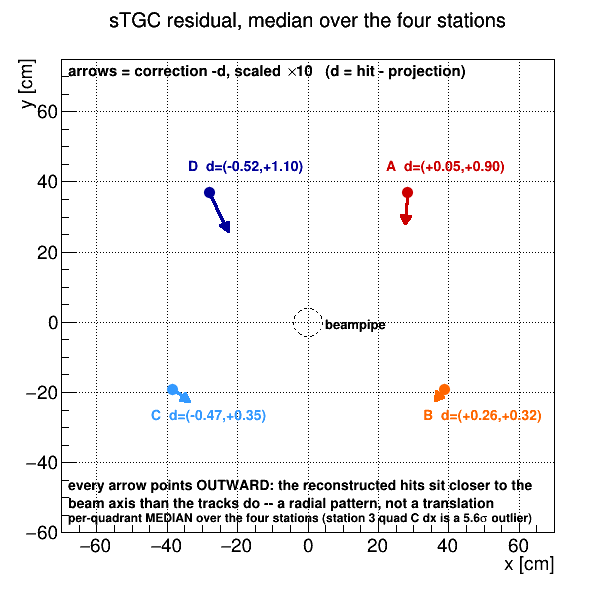
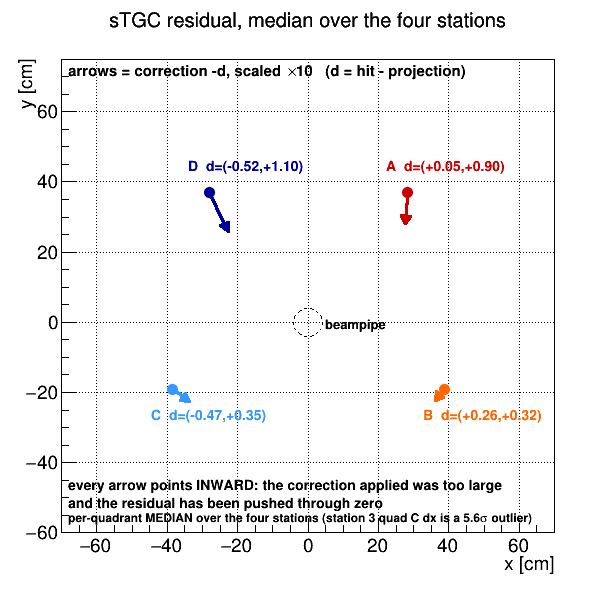
section 8: show the new plots, and stop the radial plot asserting its own conclusion
The 90-job plots were generated and committed but never referenced in the HTML, so the
page carried the new numbers with the old pictures. Added, with the before/after radial
pair side by side since the arrows shrinking is the clearest single view of what the
tables did.

More importantly: plotStgcRadial.C had "every arrow points OUTWARD ... a radial pattern,
not a translation" hardcoded into the canvas. That was written for the uncorrected state
and is FALSE on the corrected one, where A and D have overshot and now point inward. A
conclusion baked into a plot goes stale the moment the input changes, and it is worse
than no caption because it reads as authoritative.

The caption is now derived from the data: it counts, per quadrant, whether the correction
-d has a positive radial component, and says "all outward", "all inward -- the correction
applied was too large", or "N of M outward, the correction is the right sign for some
quadrants and too large for others". Both plots regenerated; before now says OUTWARD and
after says INWARD, each because that is what its own data shows.

Verified every <img src> in the page resolves to a file that exists.

Claude-Session: https://claude.ai/code/session_01Ja7z3XUfUqiVzkNQkoczor

Changed region(s): [[0.1234, 0.7905, 0.8636, 0.8818]]

diff --git a/FstFttFlipTest/index.html b/FstFttFlipTest/index.html
@@ -873,6 +873,35 @@ a rigid shift should not broaden anything, so the dx correction is not behaving 
 translation. That ties back to the unexplained factor-3.1 dx response and to the residual
 being radial rather than translational.</p>
 
+<table border="0" cellpadding="3">
+<tr>
+  <td><a href="plots/dbinput_radial.png"><img src="plots/dbinput_radial.png" height="200"></a></td>
+  <td><a href="plots/dbgeom_radial.png"><img src="plots/dbgeom_radial.png" height="200"></a></td>
+</tr>
+<tr>
+  <td><b>before</b> &mdash; hardcoded StFttDb. All four arrows outward, 1&ndash;1.9&nbsp;cm.</td>
+  <td><b>after</b> &mdash; DB tables in. B and C nearly gone; A and D reversed, having
+      overshot.</td>
+</tr>
+</table>
+
+<table border="0" cellpadding="3">
+<tr>
+  <td><a href="plots/dbgeom_quad_all.png"><img src="plots/dbgeom_quad_all.png" height="200"></a></td>
+  <td><a href="plots/dbgeom_quad_disk0.png"><img src="plots/dbgeom_quad_disk0.png" height="200"></a></td>
+  <td><a href="plots/dbgeom_quad_disk1.png"><img src="plots/dbgeom_quad_disk1.png" height="200"></a></td>
+  <td><a href="plots/dbgeom_quad_disk2.png"><img src="plots/dbgeom_quad_disk2.png" height="200"></a></td>
+  <td><a href="plots/dbgeom_quad_disk3.png"><img src="plots/dbgeom_quad_disk3.png" height="200"></a></td>
+</tr>
+<tr>
+  <td>all 4 stations, tables in</td><td>station 1</td><td>station 2</td><td>station 3</td>
+  <td>station 4</td>
+</tr>
+</table>
+<p>90 jobs, 1.17M events. Compare against the same plots in
+<a href="index.html#dbinput">section 7</a>, which are the hardcoded-StFttDb input state
+over 30 files.</p>
+
 <H2>The three-stage progression</H2>
 <p>Slide 2 of the 2026-09-29 deck asks for spacepoint / planar / planar+tables side by
 side. All three are the <b>same 2500 events</b>; stage&nbsp;1 needed its own build because

diff --git a/script/plotStgcRadial.C b/script/plotStgcRadial.C
@@ -52,6 +52,7 @@ void plotStgcRadial(const char* file, const char* out){
   tt.SetTextSize(0.024); tt.DrawLatex(5,-2,"beampipe");
 
   int col[4]={kRed+1,kOrange+7,kAzure+1,kBlue+2};
+  int nOut=0, nIn=0, nDrawn=0;   // caption is derived, never asserted
   for(int q=0;q<4;q++){
     // MEDIAN over the four stations, not the mean: station 3 quad C has dx = -2.33 at
     // only 5.6 sigma against +0.71/+0.71/+0.39 elsewhere, and a single bad fit like that
@@ -70,6 +71,10 @@ void plotStgcRadial(const char* file, const char* out){
     double mx = (n%2) ? vx[n/2] : 0.5*(vx[n/2-1]+vx[n/2]);
     double my = (n%2) ? vy[n/2] : 0.5*(vy[n/2-1]+vy[n/2]);
     cx/=n; cy/=n;
+    // does the correction (-d) point away from the beam axis at this quadrant?
+    double rn=sqrt(cx*cx+cy*cy);
+    if(rn>1e-6){ double radial=(-mx*cx-my*cy)/rn; if(radial>0) nOut++; else nIn++; }
+    nDrawn++;
     TMarker* m=new TMarker(cx,cy,20); m->SetMarkerColor(col[q]); m->SetMarkerSize(1.3); m->Draw();
     TArrow* a=new TArrow(cx,cy,cx-10*mx,cy-10*my,0.018,"|>");
     a->SetLineColor(col[q]); a->SetFillColor(col[q]); a->SetLineWidth(3); a->Draw();
@@ -77,8 +82,17 @@ void plotStgcRadial(const char* file, const char* out){
     tt.DrawLatex(cx-6,cy+(cy>0?6:-9), Form("%s  d=(%+.2f,%+.2f)",qn[q],mx,my));
   }
   tt.SetTextColor(kBlack); tt.SetTextSize(0.026);
-  tt.DrawLatex(-68,-48,"every arrow points OUTWARD: the reconstructed hits sit closer to the");
-  tt.DrawLatex(-68,-53,"beam axis than the tracks do -- a radial pattern, not a translation");
+  if(nOut==nDrawn){
+    tt.DrawLatex(-68,-48,"every arrow points OUTWARD: the reconstructed hits sit closer to the");
+    tt.DrawLatex(-68,-53,"beam axis than the tracks do -- a radial pattern, not a translation");
+  } else if(nIn==nDrawn){
+    tt.DrawLatex(-68,-48,"every arrow points INWARD: the correction applied was too large");
+    tt.DrawLatex(-68,-53,"and the residual has been pushed through zero");
+  } else {
+    tt.DrawLatex(-68,-48,Form("%d of %d arrows point outward, %d inward: the correction is",
+                              nOut,nDrawn,nIn));
+    tt.DrawLatex(-68,-53,"the right sign for some quadrants and too large for others");
+  }
   tt.SetTextSize(0.022);
   tt.DrawLatex(-68,-57,"per-quadrant MEDIAN over the four stations (station 3 quad C dx is a 5.6#sigma outlier)");
   c->SaveAs(out);
